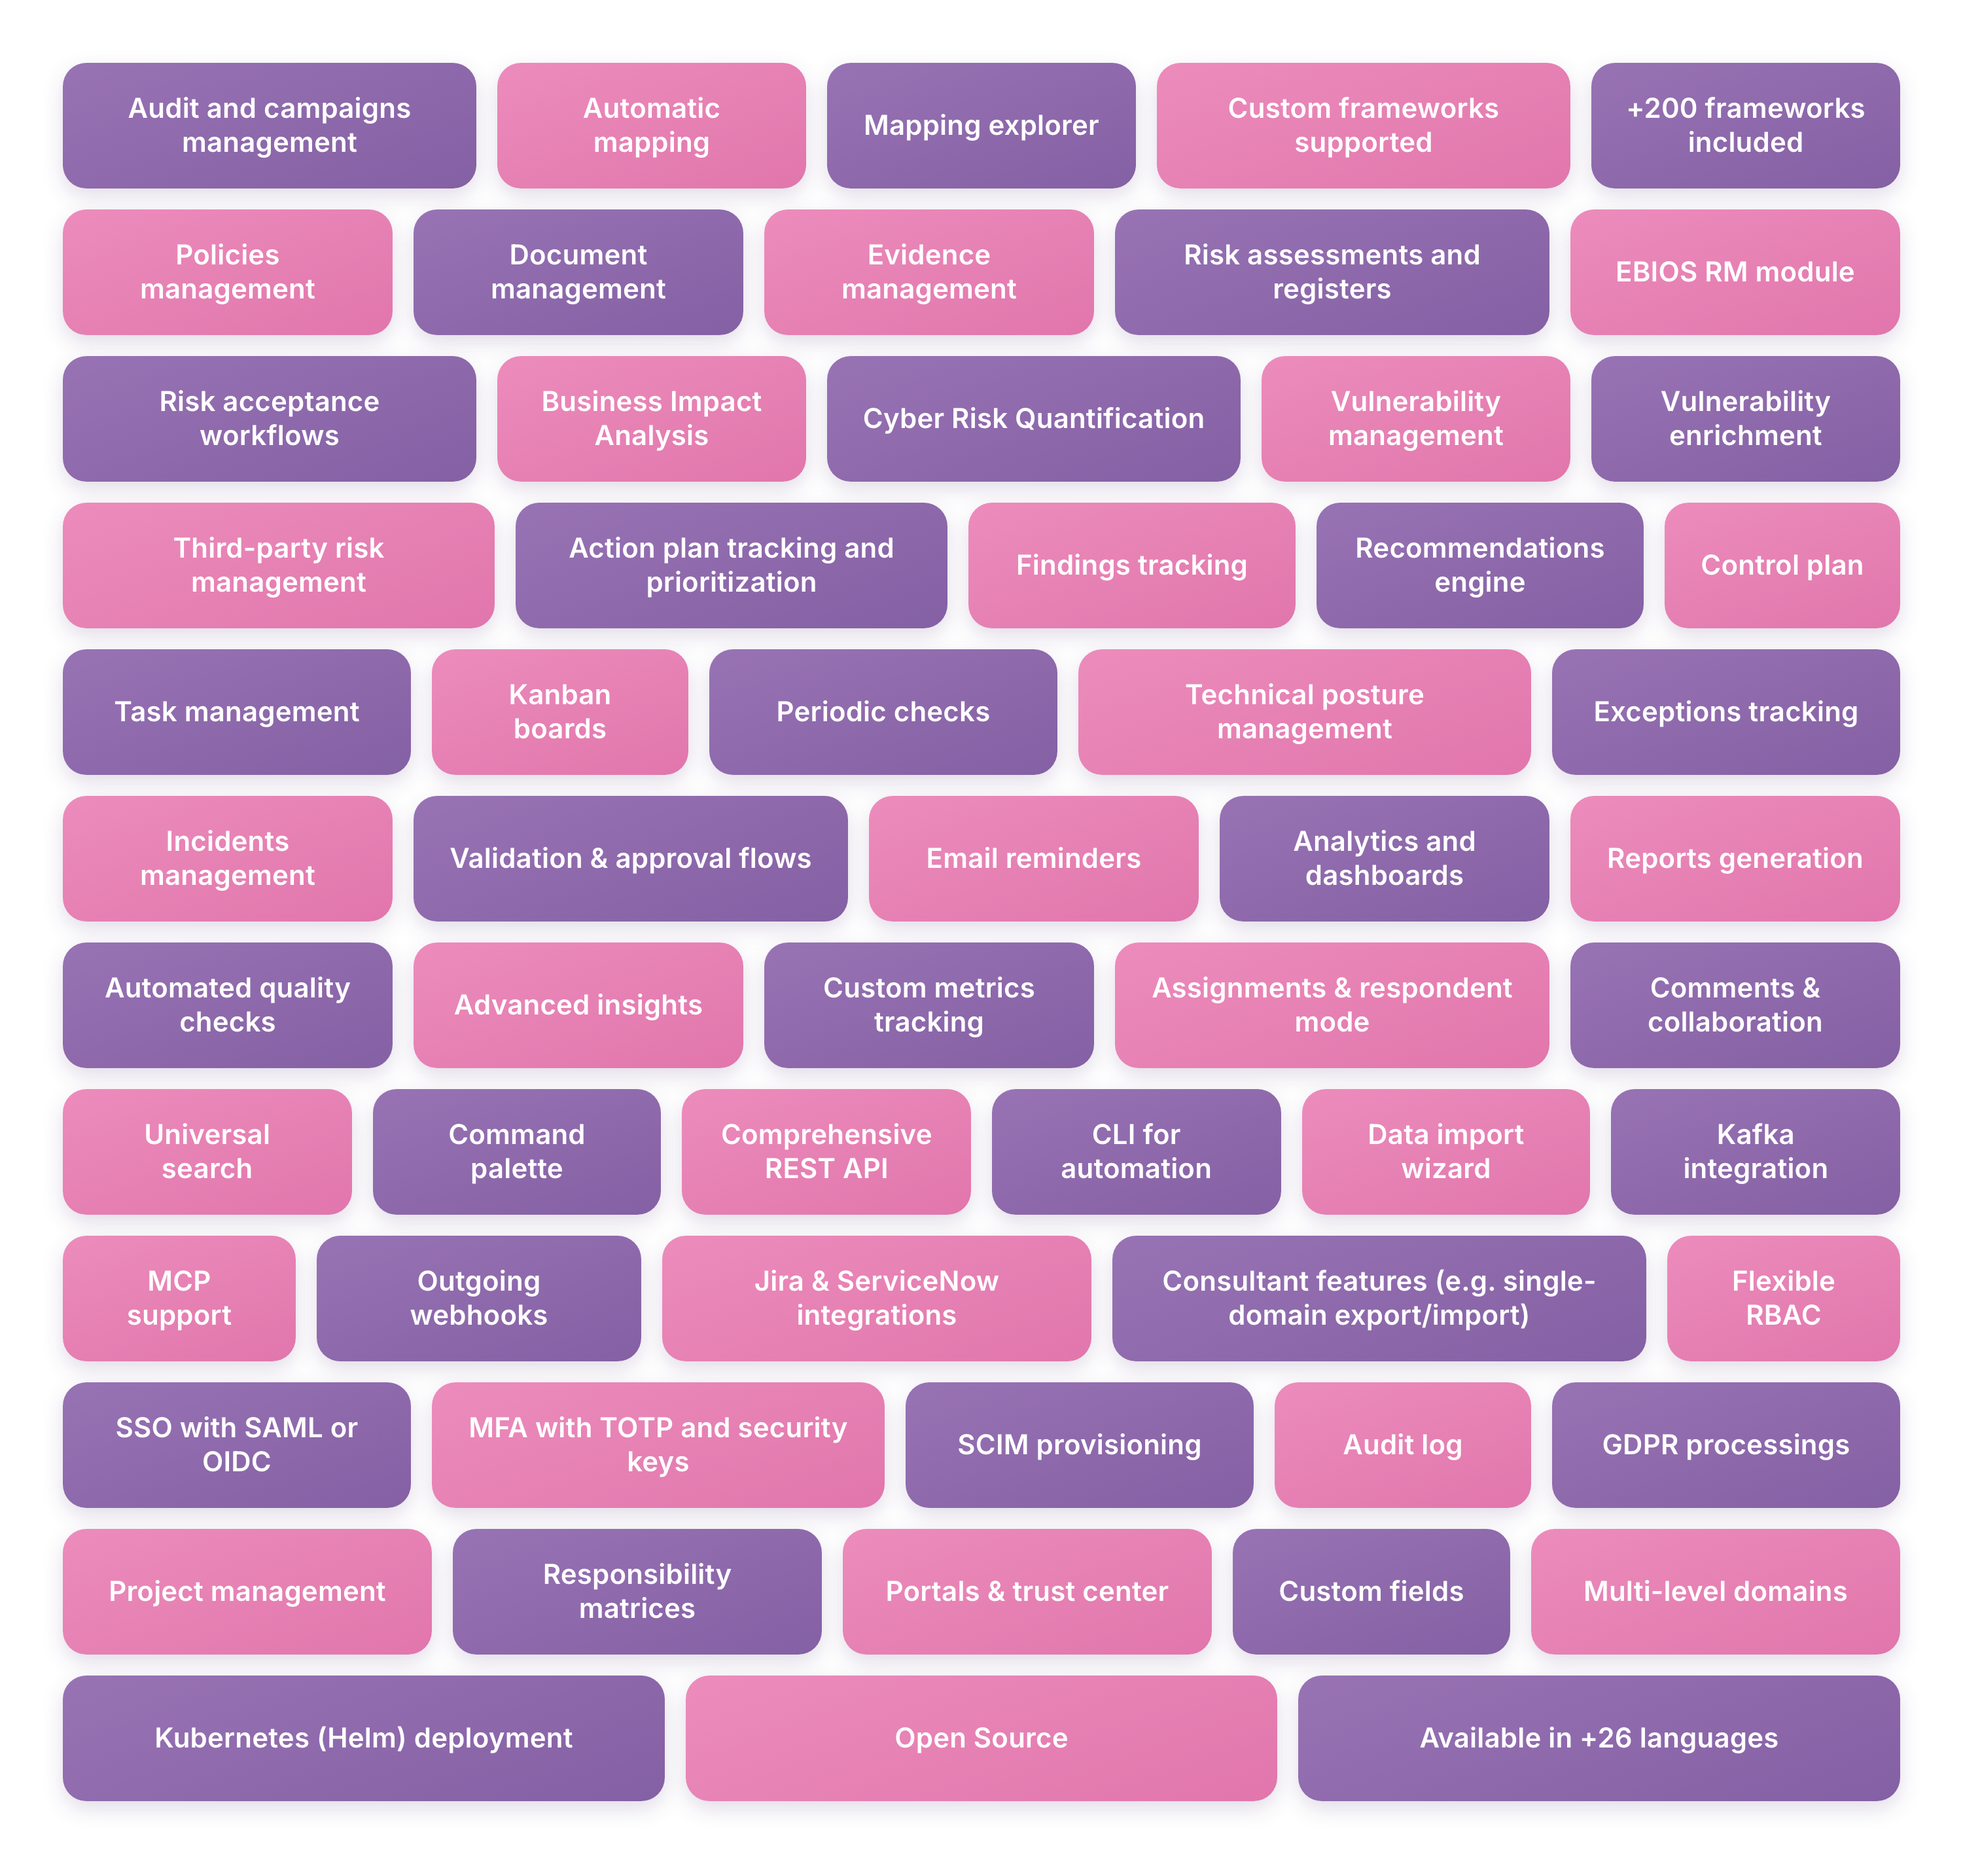
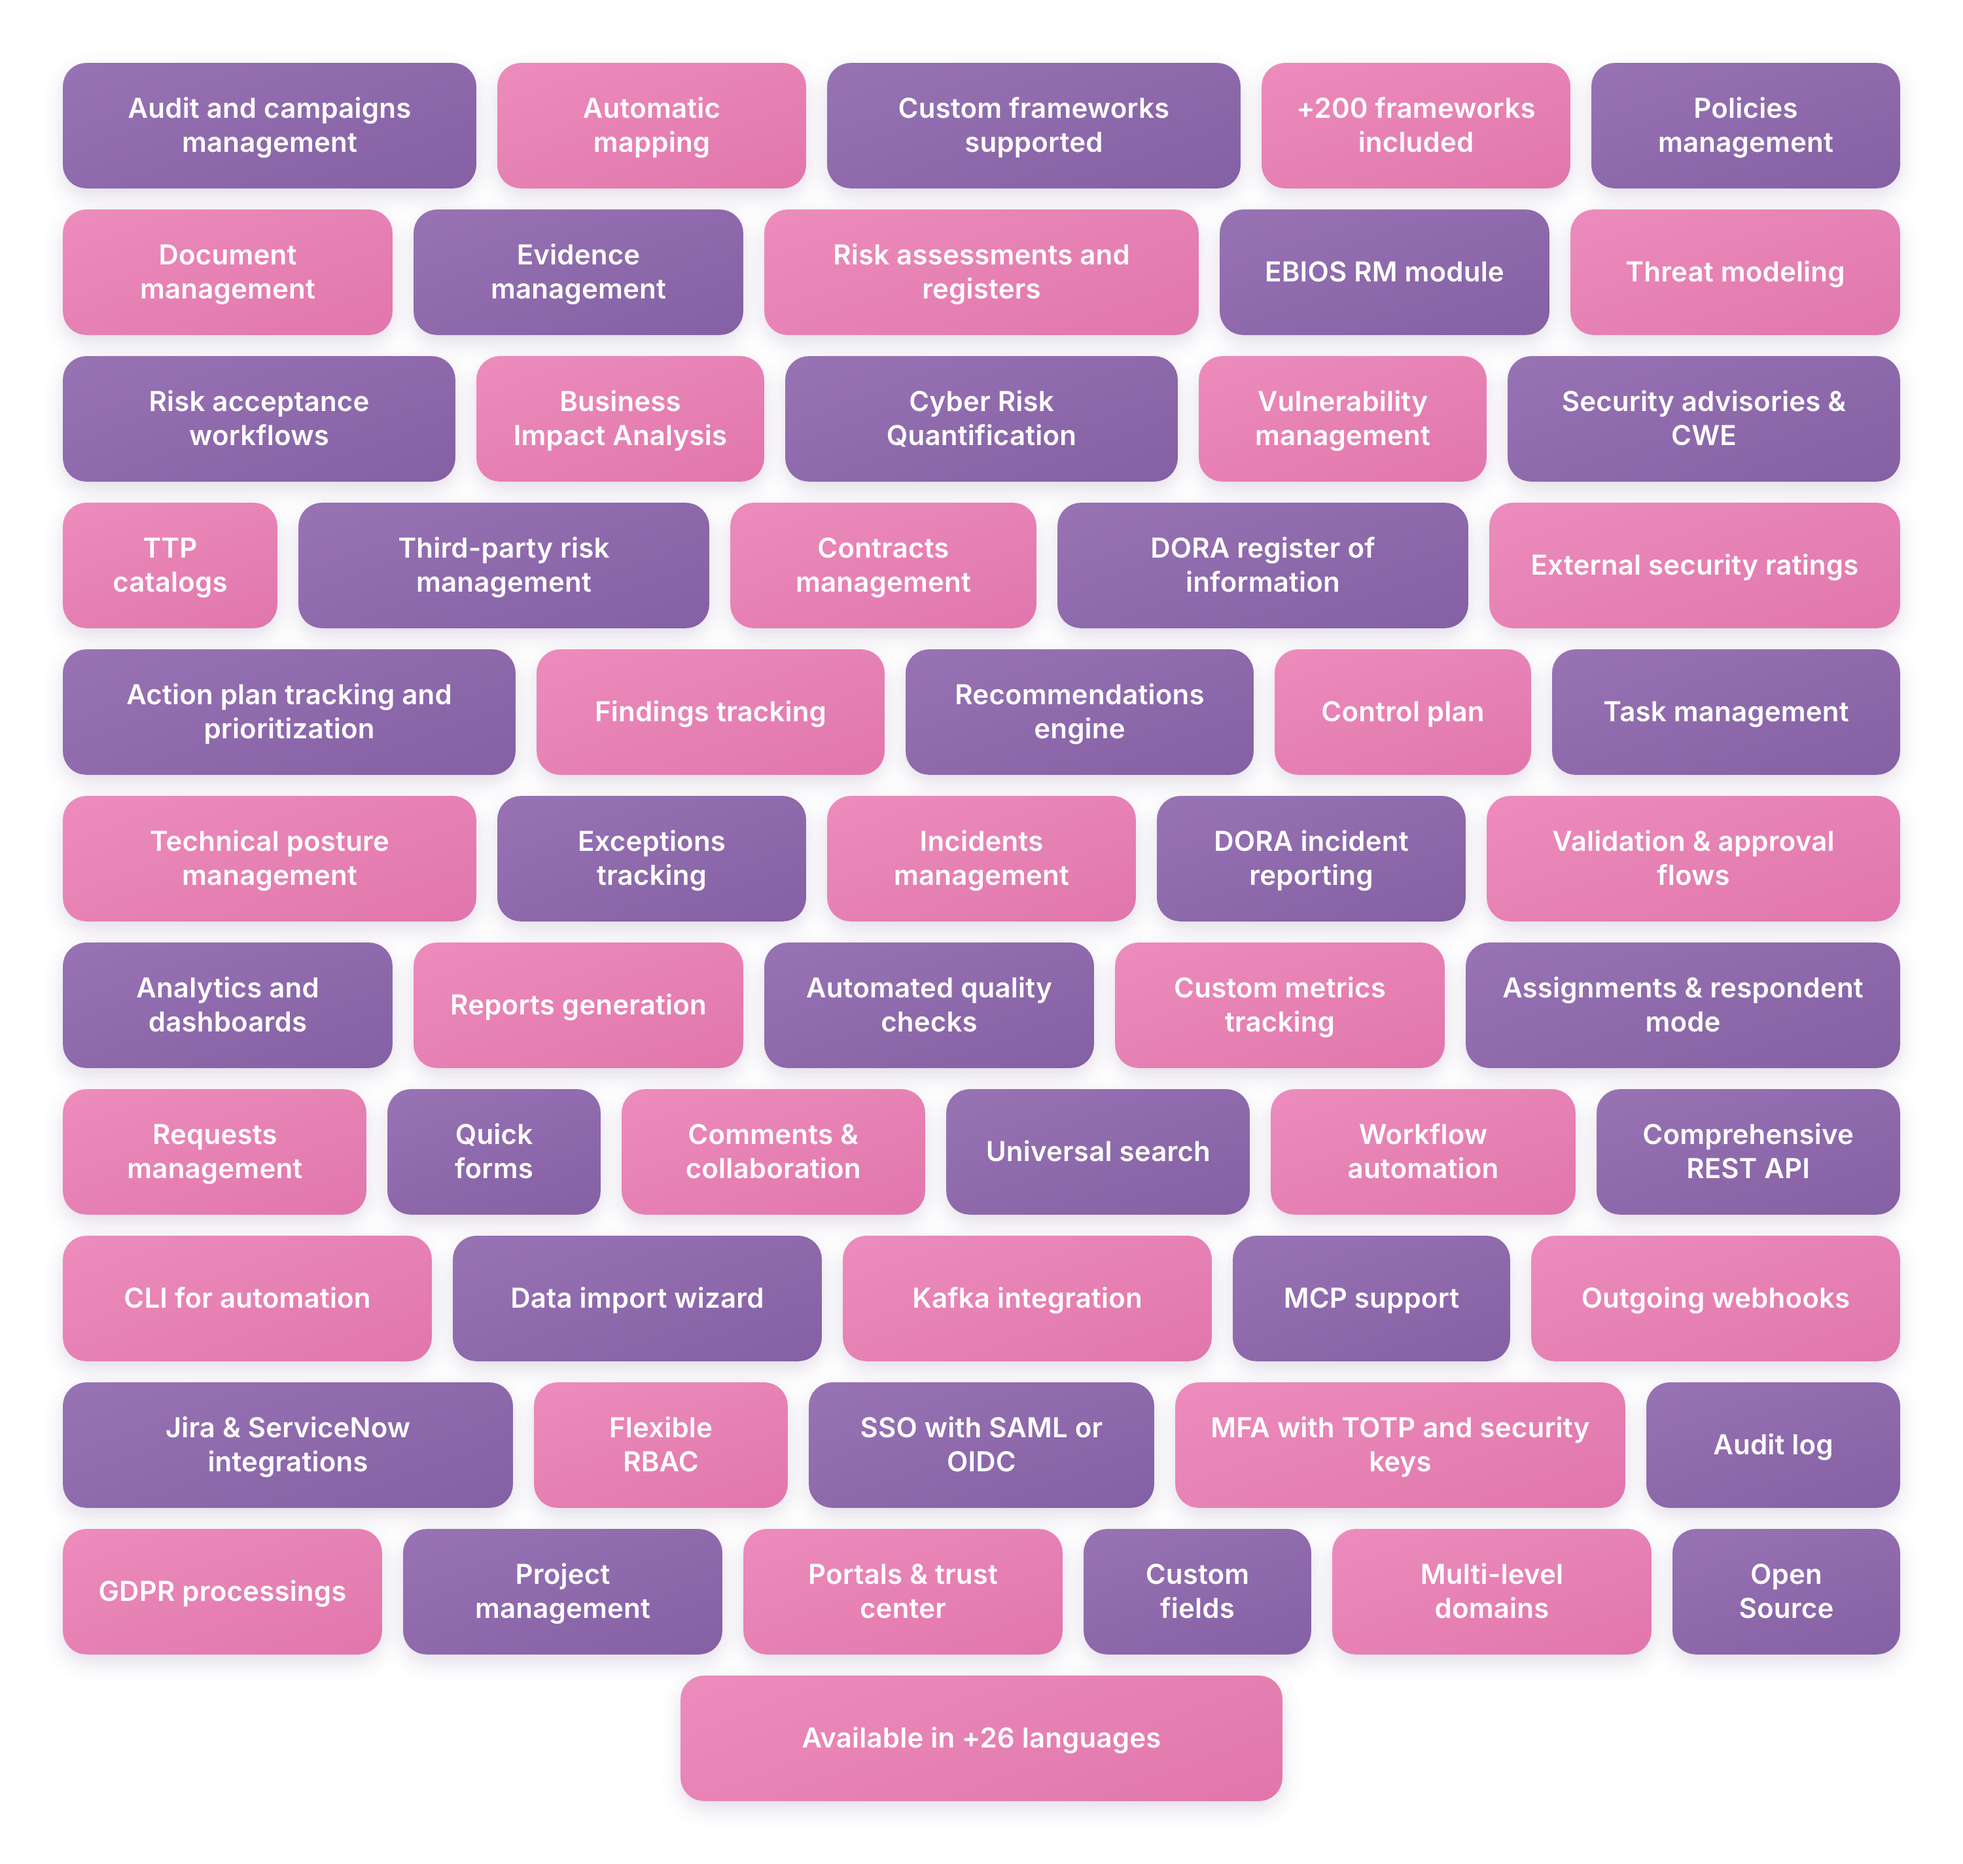
chores(doc): update readme and bento

diff --git a/tools/readme/features.html b/tools/readme/features.html
@@ -79,6 +79,8 @@
   <!-- tools/readme/features.json; the render script injects it into the    -->
   <!-- data slot below. To change features, edit the JSON and run:          -->
   <!-- pnpm --dir frontend readme:features                                  -->
+  <!-- Entries marked "bento": false are listed in the README but skipped   -->
+  <!-- here, which keeps this image at a readable height.                   -->
   <!-- =================================================================== -->
   <div class="bento" id="bento"></div>
 
@@ -97,7 +99,10 @@
     const raw = document.getElementById("features-data").textContent.trim();
     // Accept either the full features.json object or a bare array of names.
     const parsed = JSON.parse(raw);
-    const features = Array.isArray(parsed) ? parsed : parsed.features;
+    const all = Array.isArray(parsed) ? parsed : parsed.features;
+    // `"bento": false` keeps a feature in the README's collapsible list but out
+    // of the image, so the list can stay exhaustive without the PNG growing.
+    const features = all.filter((f) => typeof f === "string" || f.bento !== false);
     const bento = document.getElementById("bento");
 
     features.forEach((f, i) => {

diff --git a/README.md b/README.md
@@ -103,7 +103,7 @@ The docker compose file can be adjusted to pass extra parameters to suit your se
 
 <!-- FEATURES:START -->
 <details>
-<summary><strong>📋 Full feature list</strong> — click to expand (searchable, 59 features)</summary>
+<summary><strong>📋 Full feature list</strong> — click to expand (searchable, 69 features)</summary>
 
 **Compliance & frameworks**
 - Audit and campaigns management
@@ -118,14 +118,20 @@ The docker compose file can be adjusted to pass extra parameters to suit your se
 **Risk management**
 - Risk assessments and registers
 - EBIOS RM module
+- Threat modeling
 - Risk acceptance workflows
 - Business Impact Analysis
 - Cyber Risk Quantification
 - Vulnerability management
 - Vulnerability enrichment
+- Security advisories & CWE
+- TTP catalogs
 
 **Third-party risk**
 - Third-party risk management
+- Contracts management
+- DORA register of information
+- External security ratings
 
 **Operations & remediation**
 - Action plan tracking and prioritization
@@ -138,6 +144,7 @@ The docker compose file can be adjusted to pass extra parameters to suit your se
 - Technical posture management
 - Exceptions tracking
 - Incidents management
+- DORA incident reporting
 - Validation & approval flows
 - Email reminders
 
@@ -150,11 +157,14 @@ The docker compose file can be adjusted to pass extra parameters to suit your se
 
 **Collaboration & productivity**
 - Assignments & respondent mode
+- Requests management
+- Quick forms
 - Comments & collaboration
 - Universal search
 - Command palette
 
 **Automation & integrations**
+- Workflow automation
 - Comprehensive REST API
 - CLI for automation
 - Data import wizard
